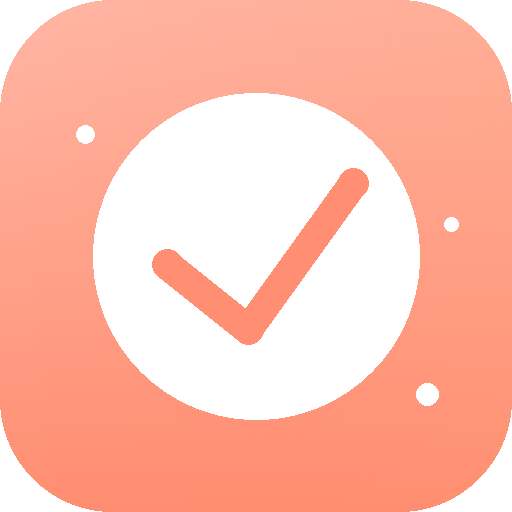
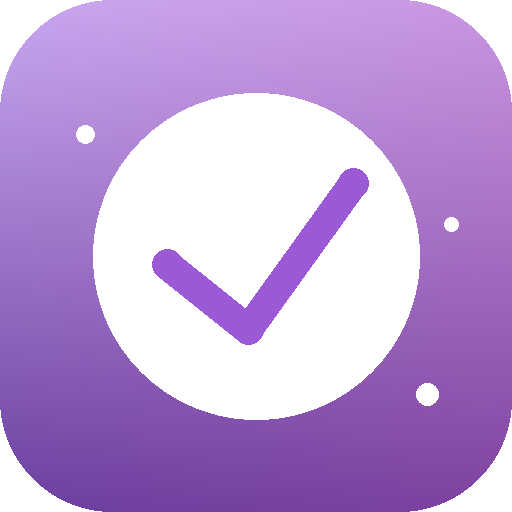
Purple rev, ARMY default with Hogwarts and Euphoria themes, BTS HP Euphoria copy

diff --git a/index.html b/index.html
@@ -4,7 +4,7 @@
   <meta charset="utf-8" />
   <meta name="viewport" content="width=device-width, initial-scale=1, maximum-scale=1, viewport-fit=cover" />
   <title>Cams Chores</title>
-  <meta name="theme-color" content="#FF8E72" />
+  <meta name="theme-color" content="#9B59D6" />
   <meta name="description" content="Tiny wins for Cams." />
   <link rel="manifest" href="manifest.webmanifest" />
   <link rel="apple-touch-icon" href="icon-192.png" />
@@ -15,33 +15,33 @@
   <meta name="apple-mobile-web-app-title" content="Chores" />
   <style>
     :root {
-      --bg-1: #FFF6EE;
-      --bg-2: #FFE9D7;
-      --ink: #3A2A1F;
-      --ink-soft: #6B5648;
-      --accent: #FF8E72;
-      --accent-soft: #FFD8C8;
+      --bg-1: #F4ECFB;
+      --bg-2: #E5D4F5;
+      --ink: #2D1B4A;
+      --ink-soft: #6D5887;
+      --accent: #9B59D6;
+      --accent-soft: #D9C2F0;
       --card: #FFFFFF;
-      --shadow: 0 6px 24px rgba(58, 42, 31, 0.08);
-      --shadow-lg: 0 12px 36px rgba(58, 42, 31, 0.14);
+      --shadow: 0 6px 24px rgba(45, 27, 74, 0.10);
+      --shadow-lg: 0 12px 36px rgba(45, 27, 74, 0.18);
       --radius: 22px;
       --radius-sm: 14px;
     }
-    [data-theme="sky"] {
-      --bg-1: #EEF7FB;
-      --bg-2: #DBEDF6;
-      --ink: #1F3A4A;
-      --ink-soft: #4A6373;
-      --accent: #5BB0CE;
-      --accent-soft: #C8E5F0;
+    [data-theme="hogwarts"] {
+      --bg-1: #ECE3F5;
+      --bg-2: #D5C3E8;
+      --ink: #1F1A35;
+      --ink-soft: #4F3F73;
+      --accent: #6B3FA0;
+      --accent-soft: #C4A8E0;
     }
-    [data-theme="lavender"] {
-      --bg-1: #F6F0FB;
-      --bg-2: #ECE0F4;
-      --ink: #3D2E50;
-      --ink-soft: #6B5680;
-      --accent: #B387D6;
-      --accent-soft: #E0CCF0;
+    [data-theme="euphoria"] {
+      --bg-1: #FBE9F4;
+      --bg-2: #F1D0E8;
+      --ink: #3A1F45;
+      --ink-soft: #7D5680;
+      --accent: #D04DA0;
+      --accent-soft: #F4C2D9;
     }
     * { box-sizing: border-box; -webkit-tap-highlight-color: transparent; }
     html, body { margin: 0; padding: 0; }
@@ -74,9 +74,9 @@
       cursor: pointer;
       transition: transform 0.15s ease;
     }
-    .theme-dot[data-t="peach"] { background: linear-gradient(135deg, #FFB7A5, #FF8E72); }
-    .theme-dot[data-t="sky"] { background: linear-gradient(135deg, #9CD3E8, #5BB0CE); }
-    .theme-dot[data-t="lavender"] { background: linear-gradient(135deg, #C9A8E8, #B387D6); }
+    .theme-dot[data-t="army"] { background: linear-gradient(135deg, #C9A8F0, #9B59D6); }
+    .theme-dot[data-t="hogwarts"] { background: linear-gradient(135deg, #8B6BC8, #6B3FA0); }
+    .theme-dot[data-t="euphoria"] { background: linear-gradient(135deg, #F4A2D0, #D04DA0); }
     .theme-dot.active { transform: scale(1.18); border-color: rgba(255,255,255,0.95); box-shadow: 0 4px 10px rgba(0,0,0,0.18); }
 
     .stats {
@@ -107,7 +107,7 @@
       background: var(--accent); color: white; border: none;
       border-radius: 999px; padding: 12px 18px; font-weight: 700;
       font-size: 15px; cursor: pointer;
-      box-shadow: 0 4px 14px rgba(255, 142, 114, 0.38);
+      box-shadow: 0 4px 14px rgba(155, 89, 214, 0.42);
       font-family: inherit;
       transition: transform 0.12s ease;
     }
@@ -174,7 +174,7 @@
       width: 54px; height: 54px;
       font-size: 24px; cursor: pointer;
       display: flex; align-items: center; justify-content: center;
-      box-shadow: 0 4px 14px rgba(255, 142, 114, 0.42);
+      box-shadow: 0 4px 14px rgba(155, 89, 214, 0.45);
       transition: transform 0.12s ease;
       font-family: inherit;
     }
@@ -243,7 +243,7 @@
       background: var(--accent); color: white; border: none;
       padding: 14px 28px; border-radius: 999px; font-weight: 700;
       font-size: 14px; cursor: pointer; font-family: inherit;
-      box-shadow: 0 6px 16px rgba(255, 142, 114, 0.4);
+      box-shadow: 0 6px 16px rgba(155, 89, 214, 0.42);
     }
 
     .modal {
@@ -312,13 +312,13 @@
 <body>
   <div class="topbar">
     <div class="greet">
-      Hi Cams <span id="emoji-greet">☀️</span>
-      <small id="greet-sub">Let's grab a quick win</small>
+      Hi Cams <span id="emoji-greet">💜</span>
+      <small id="greet-sub">Borahae, let's grab a quick win</small>
     </div>
     <div class="theme-pick" aria-label="Themes">
-      <span class="theme-dot active" data-t="peach" title="Peach"></span>
-      <span class="theme-dot" data-t="sky" title="Sky"></span>
-      <span class="theme-dot" data-t="lavender" title="Lavender"></span>
+      <span class="theme-dot active" data-t="army" title="ARMY 💜"></span>
+      <span class="theme-dot" data-t="hogwarts" title="Hogwarts 🪄"></span>
+      <span class="theme-dot" data-t="euphoria" title="Euphoria ✨"></span>
     </div>
   </div>
 
@@ -351,14 +351,14 @@
     <div class="emoji" id="reward-emoji">🎁</div>
     <div style="flex:1; min-width:0;">
       <div class="label">Your reward at 7 day streak</div>
-      <div class="text" id="reward-text">Tap edit, set a treat you'll earn</div>
+      <div class="text" id="reward-text">Concert ticket, butterbeer, glitter, you pick</div>
       <div class="reward-progress" aria-hidden="true"><div id="reward-bar" style="width:0%"></div></div>
     </div>
     <button class="edit" id="reward-edit">Edit</button>
   </div>
 
   <div class="footer">
-    <span>made with care, for Cams 💝</span>
+    <span>made with care, for Cams 💜</span>
   </div>
 
   <div class="win-overlay" id="win-overlay" role="dialog" aria-modal="true">
@@ -372,9 +372,9 @@
 
   <div class="modal" id="reward-modal" role="dialog" aria-modal="true">
     <div class="modal-card">
-      <h3>What's your treat?</h3>
-      <div class="sub">Something to chase at a 7 day streak.</div>
-      <input id="reward-input" placeholder="A coffee date with the girls" autocapitalize="sentences" />
+      <h3>What's your treat? 💜</h3>
+      <div class="sub">Something to chase at a 7 day streak. BTS merch, butterbeer, glitter, anything.</div>
+      <input id="reward-input" placeholder="A BTS concert ticket" autocapitalize="sentences" />
       <div class="row">
         <button class="cancel" id="reward-cancel">Cancel</button>
         <button class="save" id="reward-save">Save</button>
@@ -423,7 +423,7 @@
       lastDone: null,
       freezeUsed: null,
       reward: '',
-      theme: 'peach',
+      theme: 'army',
       sort: 'easiest',
       showAll: false,
       seeded: false,
@@ -499,12 +499,12 @@
     }
 
     const LEVELS = [
-      { min: 0,    name: 'Spark' },
-      { min: 100,  name: 'Star' },
-      { min: 250,  name: 'Superstar' },
-      { min: 500,  name: 'Sunshine' },
-      { min: 1000, name: 'Champion' },
-      { min: 2000, name: 'Legend' },
+      { min: 0,    name: 'Muggle' },
+      { min: 100,  name: 'Lumos' },
+      { min: 250,  name: 'Bias' },
+      { min: 500,  name: 'Glitter' },
+      { min: 1000, name: 'Patronus' },
+      { min: 2000, name: 'Bangtan' },
     ];
     function currentLevel() {
       return LEVELS.slice().reverse().find(l => state.points >= l.min) || LEVELS[0];
@@ -583,7 +583,7 @@
       $('#points-num').textContent = state.points;
       $('#level-name').textContent = currentLevel().name;
       const root = document.documentElement;
-      if (state.theme === 'peach') root.removeAttribute('data-theme');
+      if (state.theme === 'army') root.removeAttribute('data-theme');
       else root.setAttribute('data-theme', state.theme);
       $$('.theme-dot').forEach(d => d.classList.toggle('active', d.dataset.t === state.theme));
       $$('.sort-toggle button').forEach(b => b.classList.toggle('on', b.dataset.sort === state.sort));
@@ -592,8 +592,8 @@
         $('#reward-text').textContent = state.reward;
         $('#reward-emoji').textContent = pickRewardEmoji(state.reward);
       } else {
-        $('#reward-text').textContent = "Tap edit, set a treat you'll earn";
-        $('#reward-emoji').textContent = '🎁';
+        $('#reward-text').textContent = "Concert ticket, butterbeer, glitter, you pick";
+        $('#reward-emoji').textContent = '💜';
       }
       const pct = Math.min(100, Math.round((Math.min(state.streak, 7) / 7) * 100));
       $('#reward-bar').style.width = pct + '%';
@@ -627,6 +627,12 @@
 
     function pickRewardEmoji(text) {
       const t = (text || '').toLowerCase();
+      if (t.includes('concert') || t.includes('bts') || t.includes('bangtan')) return '🎤';
+      if (t.includes('army') || t.includes('borahae') || t.includes('purple')) return '💜';
+      if (t.includes('harry') || t.includes('potter') || t.includes('hogwarts')) return '⚡';
+      if (t.includes('butterbeer') || t.includes('wand')) return '🪄';
+      if (t.includes('euphoria') || t.includes('glitter') || t.includes('sparkle')) return '✨';
+      if (t.includes('ticket')) return '🎟️';
       if (t.includes('coffee')) return '☕';
       if (t.includes('spa')) return '🧖♀️';
       if (t.includes('nail')) return '💅';
@@ -737,17 +743,26 @@
       const body = $('#win-body');
       const emoji = $('#win-emoji');
       const dayWord = state.streak === 1 ? 'day' : 'days';
+      const BATCH_TITLES = [
+        "Five down, mic drop 🎤",
+        "Bias level, confirmed 💜",
+        "Wingardium leviosa ✨",
+        "Glitter mode achieved",
+        "Five charms cast 🪄",
+        "Slay, Rue would be proud",
+      ];
+      const idx = Math.floor((state.points / 50) % BATCH_TITLES.length);
       if (kind === 'all') {
         emoji.textContent = '🎉';
-        title.textContent = "Everything's done!";
-        body.textContent = `Look at you. ${state.streak} ${dayWord} streak. Add a little something when you're ready.`;
+        title.textContent = "Everything's done, ARMY!";
+        body.textContent = `Look at you. ${state.streak} ${dayWord} streak. Add a little something when you're ready 💜`;
       } else if (kind === 'streak7') {
         emoji.textContent = '🏆';
-        title.textContent = "7 day streak!";
-        body.textContent = state.reward ? `Your treat: ${state.reward}. You earned it.` : "You earned a treat. Pick something nice.";
+        title.textContent = "7 day streak, Patronus unlocked!";
+        body.textContent = state.reward ? `Your treat: ${state.reward}. You earned it, bias 💜` : "You earned your treat. Pick something nice.";
       } else {
-        emoji.textContent = '🌟';
-        title.textContent = "Five down, you won the day!";
+        emoji.textContent = '💜';
+        title.textContent = BATCH_TITLES[idx];
         body.textContent = `${state.streak} ${dayWord} streak. Next batch is loaded when you are.`;
       }
       overlay.classList.add('show');
@@ -797,7 +812,7 @@
       if (e.target.id === 'due-modal') $('#due-modal').classList.remove('show');
     });
 
-    const CONFETTI_COLORS = ['#FF8E72','#FFD37A','#B8DAB2','#C9B8E8','#F7B8C6','#9CD3E8'];
+    const CONFETTI_COLORS = ['#9B59D6','#D04DA0','#6B3FA0','#F4A2D0','#C9A8F0','#FFD37A','#FFFFFF'];
     function confettiBurst(originEl) {
       const r = originEl.getBoundingClientRect();
       const cx = r.right - 28;
@@ -881,12 +896,12 @@
 
     function setGreeting() {
       const h = new Date().getHours();
-      let emoji = '☀️', sub = "Let's grab a quick win";
-      if (h < 6)       { emoji = '🌙'; sub = "A small thing now, then bed"; }
-      else if (h < 11) { emoji = '☀️'; sub = "One easy thing to start the day"; }
-      else if (h < 14) { emoji = '🌞'; sub = "Two minute win, you got this"; }
-      else if (h < 18) { emoji = '🌤️'; sub = "Quick win before the kids land"; }
-      else             { emoji = '🌆'; sub = "Wrap one little thing, call it a day"; }
+      let emoji = '💜', sub = "Borahae, let's grab a quick win";
+      if (h < 6)       { emoji = '🌙'; sub = "Patronus check, then bed 💜"; }
+      else if (h < 11) { emoji = '🪄'; sub = "Lumos, light up your list"; }
+      else if (h < 14) { emoji = '💜'; sub = "Bias level focus, two minute win"; }
+      else if (h < 18) { emoji = '✨'; sub = "Glitter mode, quick win before the kids"; }
+      else             { emoji = '🌙'; sub = "Mic drop one little thing, call it a day"; }
       $('#emoji-greet').textContent = emoji;
       $('#greet-sub').textContent = sub;
     }

diff --git a/make_icons.py b/make_icons.py
@@ -11,21 +11,23 @@ OUT = os.path.dirname(os.path.abspath(__file__))
 def make_icon(size: int, maskable: bool = False) -> Image.Image:
     img = Image.new("RGBA", (size, size), (0, 0, 0, 0))
 
-    # Peach gradient background (top-left light, bottom-right warm)
-    grad = Image.new("RGB", (size, size), (255, 183, 165))
+    # BTS purple gradient (top soft lilac to bottom deep ARMY purple)
+    grad = Image.new("RGB", (size, size), (201, 168, 240))
     gd = ImageDraw.Draw(grad)
+    top = (201, 168, 240)
+    bot = (107, 63, 160)
     for y in range(size):
         t = y / max(size - 1, 1)
-        r = int(255 - 0 * t)
-        g = int(183 - 41 * t)
-        b = int(165 - 51 * t)
+        r = int(top[0] + (bot[0] - top[0]) * t)
+        g = int(top[1] + (bot[1] - top[1]) * t)
+        b = int(top[2] + (bot[2] - top[2]) * t)
         gd.line([(0, y), (size, y)], fill=(r, g, b))
-    # Diagonal warm overlay
+    # Diagonal magenta overlay for Euphoria sparkle
     overlay = Image.new("RGBA", (size, size), (0, 0, 0, 0))
     od = ImageDraw.Draw(overlay)
     for x in range(size):
         t = x / max(size - 1, 1)
-        od.line([(x, 0), (x, size)], fill=(255, int(120 + 30 * t), int(90 + 20 * t), int(60 * t)))
+        od.line([(x, 0), (x, size)], fill=(208, 77, 160, int(50 * t)))
     bg = Image.alpha_composite(grad.convert("RGBA"), overlay)
 
     if maskable:
@@ -49,9 +51,9 @@ def make_icon(size: int, maskable: bool = False) -> Image.Image:
         fill=(255, 255, 255, 235),
     )
 
-    # Checkmark stroke
+    # Checkmark stroke (ARMY purple)
     stroke_w = max(int(size * 0.06), 6)
-    color = (255, 142, 114, 255)
+    color = (155, 89, 214, 255)
     # Check: from (cx-r*0.55, cy+r*0.05) to (cx-r*0.05, cy+r*0.50) to (cx+r*0.65, cy-r*0.40)
     p1 = (cx - int(inner_r * 0.55), cy + int(inner_r * 0.05))
     p2 = (cx - int(inner_r * 0.05), cy + int(inner_r * 0.45))